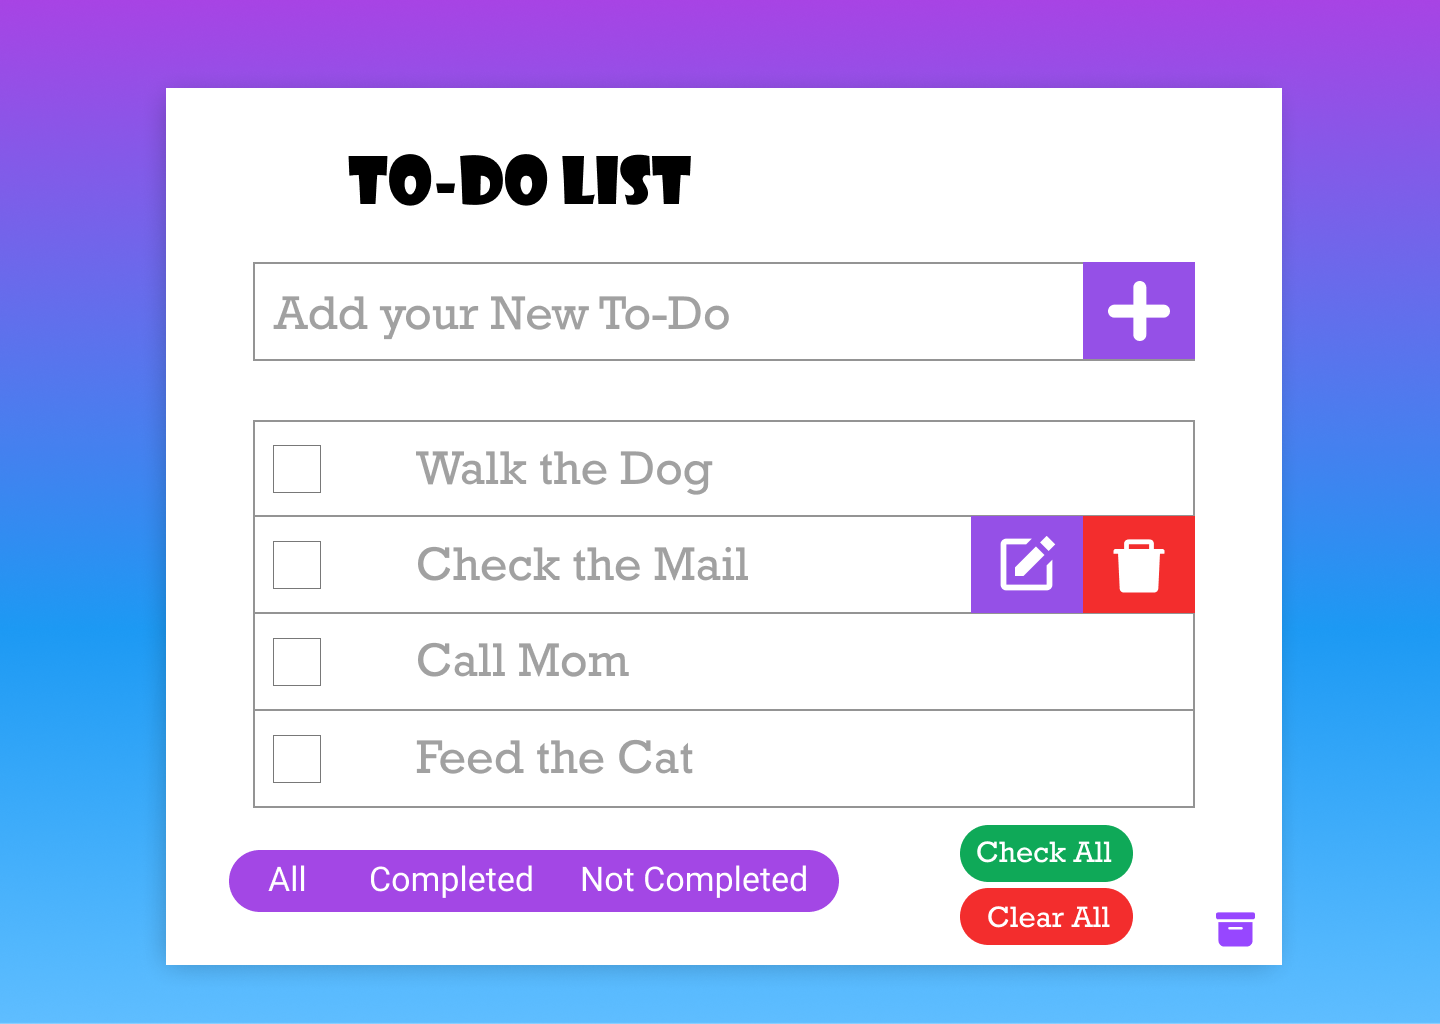
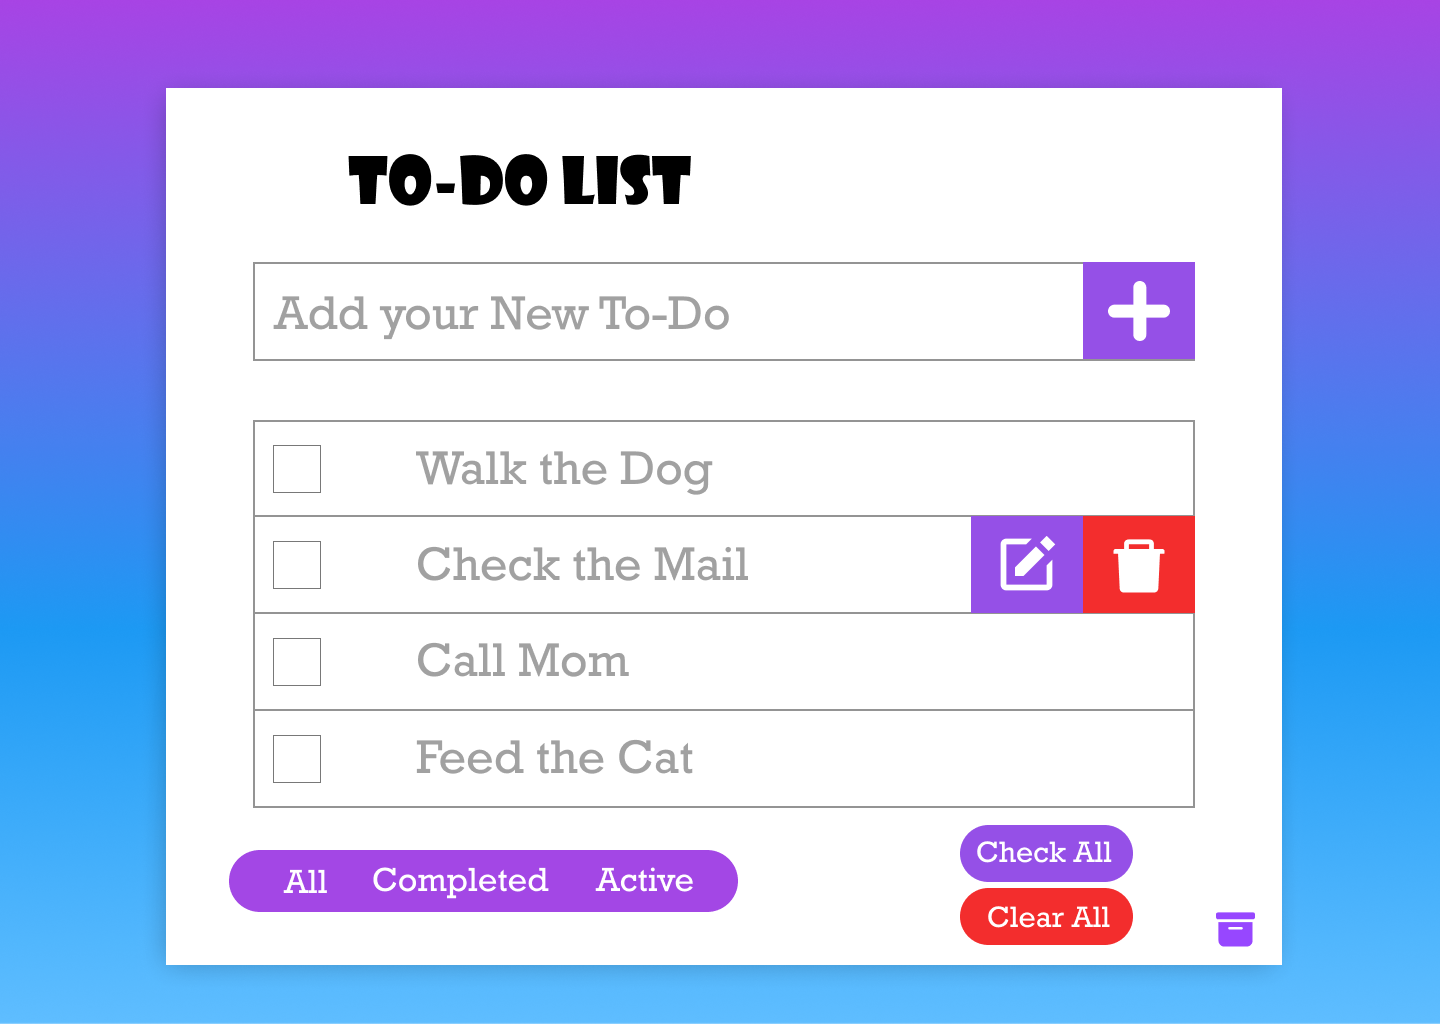
started list, form and item code

Changed region(s): [[0.25, 0.8125, 0.5938, 0.9062], [0.6562, 0.7812, 0.8125, 0.875], [0.1875, 0.8438, 0.2188, 0.875]]

diff --git a/src/ToDoList.js b/src/ToDoList.js
@@ -1,0 +1,85 @@
+import React from 'react';
+import ToDoForm from './ToDoForm';
+import ToDoItem from './ToDoItem';
+
+class ToDoList extends React.Component {
+    constructor(props) {
+        // Model
+        super(props);
+        this.state = {todos: []}
+        this.createToDo = this.createToDo.bind(this);
+        this.generateKey = this.generateKey.bind(this);
+        this.removeToDo = this.removeToDo.bind(this);
+        this.toggleComplete = this.toggleComplete.bind(this);
+    };
+
+
+    // Controller
+    createToDo(item) {
+        this.setState({
+            todos: [...this.state.todos, item]
+        });
+    };
+
+    generateKey() {
+        return Date.now();
+    };
+
+    removeToDo(id) {
+        const deletedToDos = this.state.todos.map((todo) => {
+            if (todo.id === id) {
+                todo.isDeleted = true
+            }
+        return todo;
+        });
+        this.setState({todos: deletedToDos})
+    };
+
+    toggleComplete(id) {
+        const completedToDos = this.state.todos.map((todo) => {
+            if (todo.id === id) {
+                todo.isCompleted = !todo.isCompleted
+            }
+        return todo;
+        });
+        this.setState({todos: completedToDos})
+    }
+
+    filterToDo() {
+        const filters = {
+            All: () => true,
+            Active: task => !task.completed,
+            Completed: task => task.completed
+        };
+    }
+
+    render() {
+        // View
+        const newToDo = this.state.todos.map((item) => {
+            console.log(item);
+            return (
+                <ToDoItem 
+                key={item.id}
+                id={item.id}
+                value={item.value}
+                completed={item.isCompleted}
+                remove={this.removeToDo}
+                complete={this.toggleComplete}/>
+            )
+        });
+
+        // const filtered = this.state.todos.filter((item) => {
+
+        // })
+
+        return (
+            <div>
+                <h1>To-Do List</h1>
+                <ToDoForm createToDo={this.createToDo} genKey={this.generateKey}/>
+                <ul>{newToDo}</ul>
+            </div>
+        )
+    }
+}
+
+export default ToDoList

diff --git a/src/ToDoForm.js b/src/ToDoForm.js
@@ -1,0 +1,48 @@
+import React from "react";
+
+class ToDoForm extends React.Component {
+  constructor(props) {
+    // Model
+    super(props);
+    this.state = {value: ''};
+    this.handleChange = this.handleChange.bind(this);
+    this.handleSubmit = this.handleSubmit.bind(this);
+  }
+
+
+  // Controller
+  handleChange(event) {
+    this.setState({value: event.target.value});
+  };
+
+  handleSubmit(event) {
+    alert('submitted: ' + this.state.value);
+    this.props.createToDo({
+        ...this.state, 
+        id: this.props.genKey(), 
+        isCompleted: false, 
+        isDeleted: false
+    });
+    event.preventDefault();
+    this.setState({value: ''});
+  };
+
+  render() {
+    // View
+    return (
+      <form onSubmit={this.handleSubmit}>
+        <input 
+        class="form-control" 
+        type="text" 
+        value={this.state.value} 
+        onChange={this.handleChange} 
+        placeholder="Add Your New To-Do" 
+        aria-label="default input example"
+        />
+        <button type="submit">+</button>
+      </form>
+    );
+  }
+}
+
+export default ToDoForm;

diff --git a/src/ToDoItem.js b/src/ToDoItem.js
@@ -1,0 +1,27 @@
+import React from "react";
+
+class ToDoItem extends React.Component {
+    constructor(props) {
+        super(props);
+        this.state = {inputValue: ''};
+        this.handleRemove = this.handleRemove.bind(this);
+    }
+
+    handleRemove() {
+        console.log(this.props)
+        this.props.remove(this.props.id);
+    }
+    
+    render() {
+        console.log(this.props)
+        return(
+            <>
+                <li>{this.props.value}</li>
+                <button type="button" class="btn btn-primary btn-sm">Edit</button>
+                <button type="button" class="btn btn-danger btn-sm" onClick={this.handleRemove}>Delete</button>
+            </>
+        )
+    }
+}
+
+export default ToDoItem;

diff --git a/src/App.js b/src/App.js
@@ -1,23 +1,10 @@
-import logo from './logo.svg';
+import ToDoList from './ToDoList'
 import './App.css';
 
 function App() {
   return (
     <div className="App">
-      <header className="App-header">
-        <img src={logo} className="App-logo" alt="logo" />
-        <p>
-          Edit <code>src/App.js</code> and save to reload.
-        </p>
-        <a
-          className="App-link"
-          href="https://reactjs.org"
-          target="_blank"
-          rel="noopener noreferrer"
-        >
-          Learn React
-        </a>
-      </header>
+      <ToDoList />
     </div>
   );
 }

diff --git a/pseudocode.md b/pseudocode.md
@@ -36,8 +36,8 @@ Won't Have
 
 ## Model View Controller (MVC)
 1. **Model** (stores data)
-    - store form input value by user as a to-do item
-    - store whether todo has been completed or not
+    - store form input value by user as a to-do item in state
+    - store whether todo has been completed/deleted
     - store amount of todo items added
 
 2. **View** (renders display)
@@ -90,10 +90,10 @@ OPTIONAL: handles form submission for editing todo      |   OPTIONAL: (Passes me
     - `ToDoList.state` ---> holds todo array to be filled with added todo items
     - createToDo(item) ---> function that sets state to add new todo item to state
     - removeToDo(id) ---> function that loops through state and changes isDeleted status of todo with matching id
-    - completeToDo(id) ---> function that loops through state and toggles isCompleted === true/false on marching id
+    - completeToDo(id) ---> function that loops through state and toggles isCompleted === true/false on matching id
     - generateKey() ---> function that returns a unique key based on Date and Time
     - `itemCount` ---> return todo array.length
-    - filterToDo(status) ---> function that loops through state and displays based on isCompleted and isDeleted status
+    - filterToDo(status) ---> function that loops through state and displays based on isCompleted and isDeleted status; *should this be in render()?*
     - ToDoList.render() ---> maps through ToDo components and sends props including:
     todo value, todo key/ids using generateKey(), and removeToDo()/completeToDo() methods
 
@@ -114,7 +114,7 @@ createToDo(item) {
     // set new state
     this.setState(
         // spread state, add new todo item to end of array
-        ...state.todos, todos: item
+        todos: ...state.todos, item
     )
 }
 
@@ -145,10 +145,19 @@ generateKey() {
 itemCount = state.todo.length
 
 filterToDo(status) {
-    IF status = 'completed'
+    IF status = 'Completed'
     // filter through todos and return the ones with isCompleted === true
     state.todos.filter(item.isCompleted === true)
+    state.todos.map(<ToDoItem/>)
+
+    IF status = 'Active'
+    // filter through todos and return the ones with isCompleted !== true
+    state.todos.filter(item.isCompleted !== true)
+    state.todos.map(<ToDoItem/>)
     
+    IF status = 'All'
+    // return all todos
+    state.todos.map(<ToDoItem/>)
 }
 
 ```
